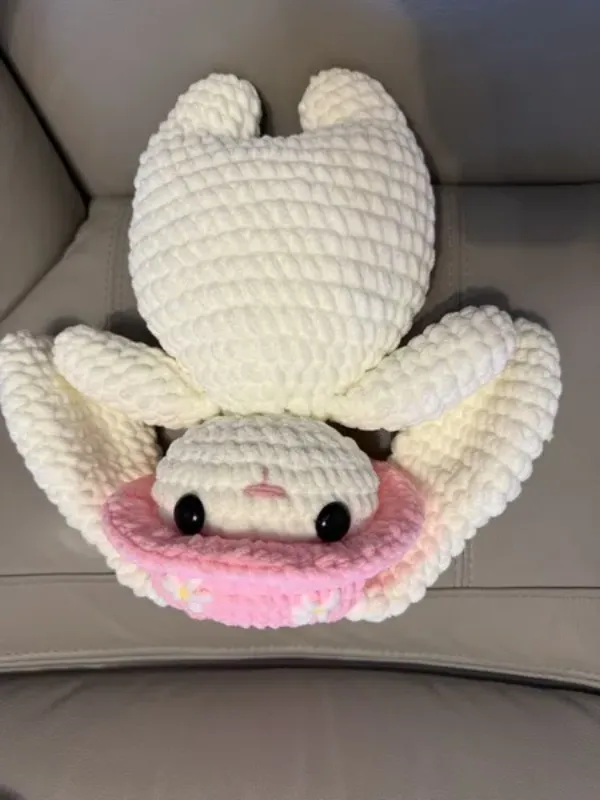
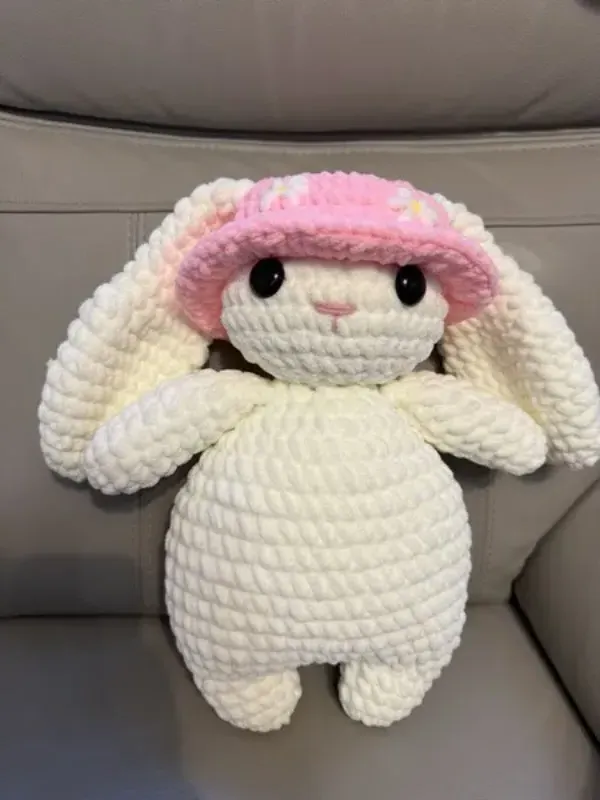
fix(images): correct rotation direction and increase grid spacing
- Re-rotate 7 product images 180° (previous rotation was wrong direction)
- Update blur placeholders for corrected images
- Increase grid gaps: mobile 1rem, tablet 2rem, desktop 2.5rem

diff --git a/components/shop/ProductGrid.tsx b/components/shop/ProductGrid.tsx
@@ -14,7 +14,7 @@ export function ProductGrid({ products, loading }: ProductGridProps) {
 
   if (loading) {
     return (
-      <div className="grid grid-cols-2 gap-3 sm:gap-6 lg:grid-cols-3 lg:gap-8">
+      <div className="grid grid-cols-2 gap-4 sm:gap-8 lg:grid-cols-3 lg:gap-10">
         {Array.from({ length: 6 }).map((_, i) => (
           <div
             key={i}
@@ -41,7 +41,7 @@ export function ProductGrid({ products, loading }: ProductGridProps) {
   }
 
   return (
-    <div className="grid grid-cols-2 gap-3 sm:gap-6 lg:grid-cols-3 lg:gap-8">
+    <div className="grid grid-cols-2 gap-4 sm:gap-8 lg:grid-cols-3 lg:gap-10">
       {products.map((product, i) => (
         <ProductCard key={product.id} product={product} priority={i < 3} />
       ))}
